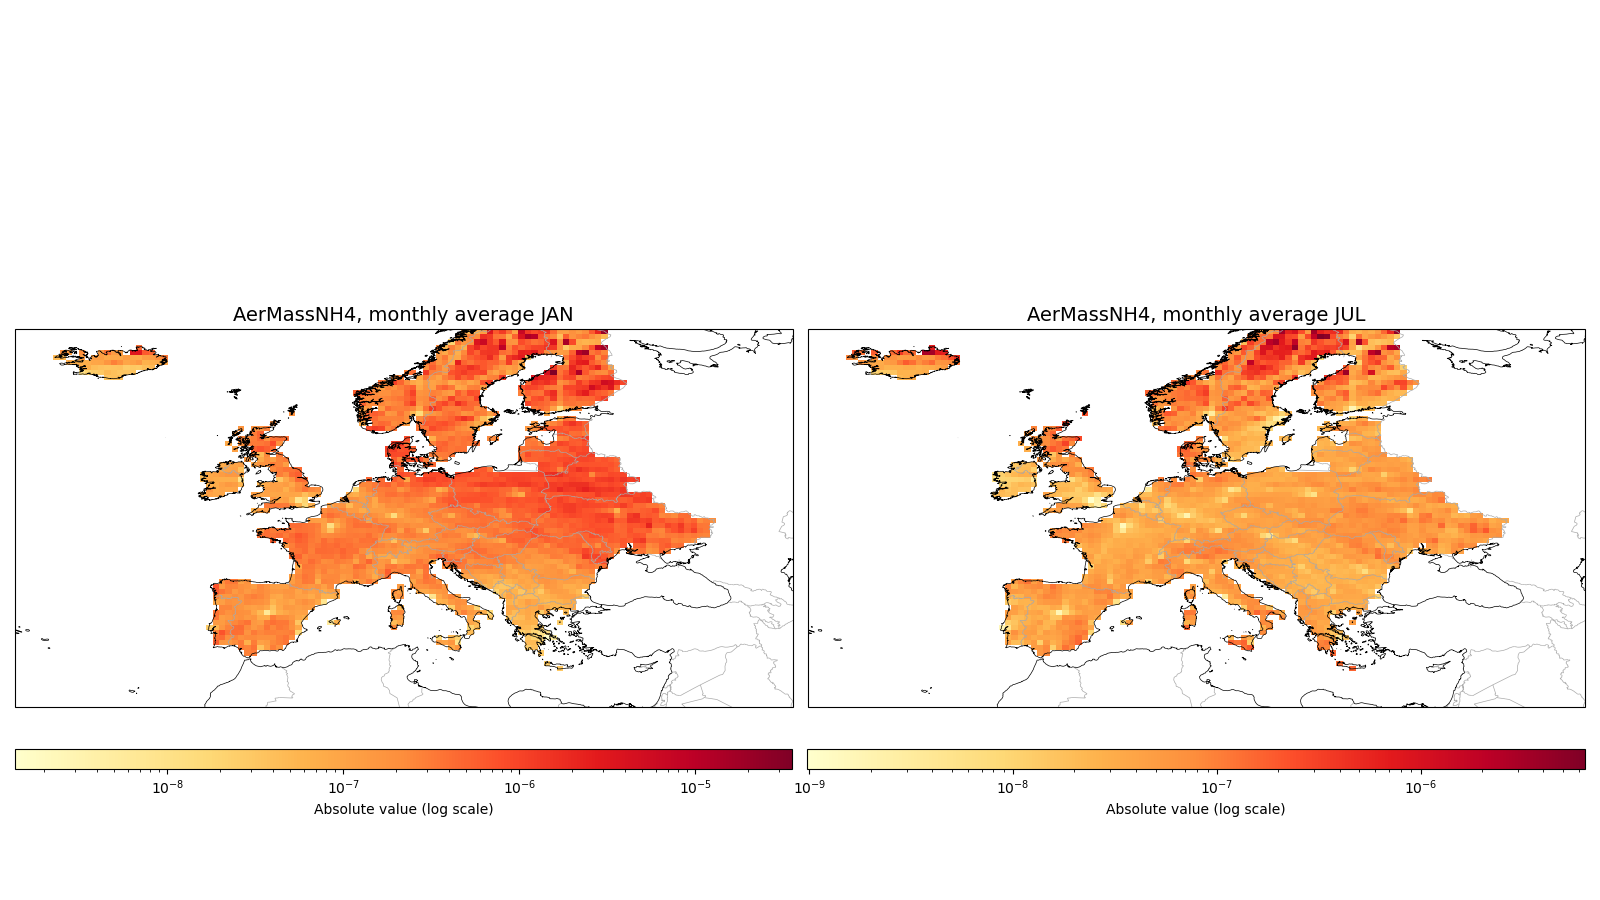
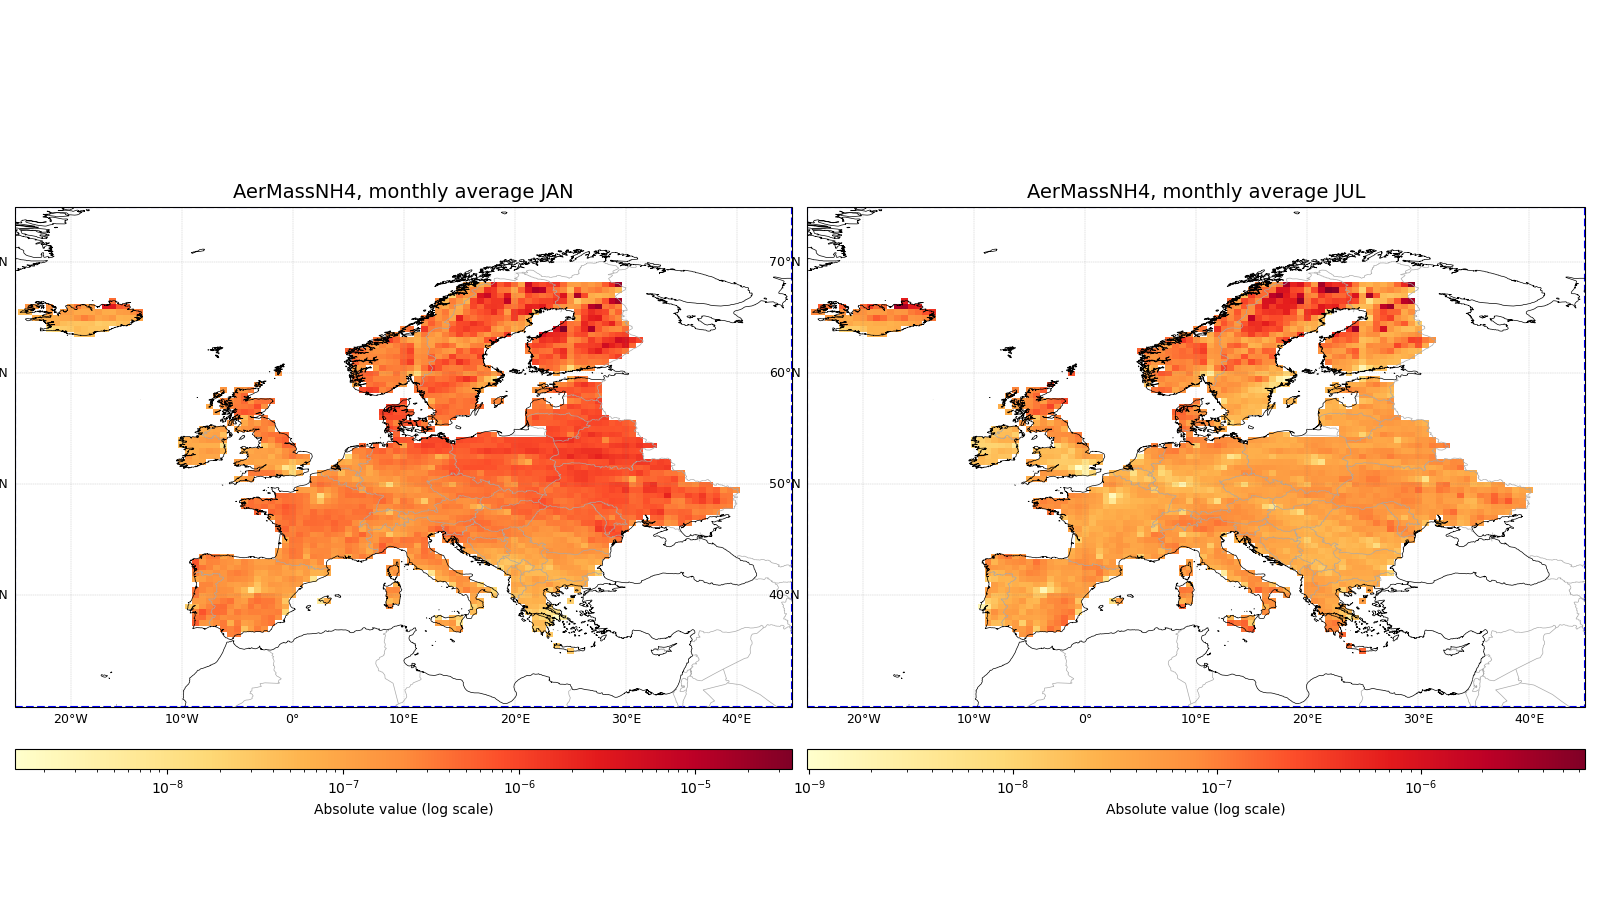
Implement cutoff for Europe

diff --git a/division_processing/procData.py b/division_processing/procData.py
@@ -1,6 +1,5 @@
 import matplotlib.pyplot as plt
 import matplotlib
-
 import cartopy.crs as ccrs
 import cartopy.feature as cfeature
 import xarray as xr
@@ -12,15 +11,14 @@ from cartopy.io.shapereader import natural_earth
 import shapely.geometry as sgeom
 import cartopy.io.shapereader as shpreader
 from shapely.prepared import prep
+from matplotlib.patches import Rectangle
 
 # Load the 'admin_0_countries' shapefile (countries of the world)
 shpfilename = shpreader.natural_earth(resolution='10m', category='cultural', name='admin_0_countries')
 reader = shpreader.Reader(shpfilename)
 records = reader.records()
 
-
 IQR = False
-# List of European countries you want to include (you can expand/adjust this)
 europe_countries = [
     "Austria", "Belgium", "Bosnia and Herzegovina", "Bulgaria", "Croatia", "Czech Republic",
     "Denmark", "Estonia", "Finland", "France", "Germany", "Greece", "Hungary",
@@ -44,9 +42,16 @@ for record in records:
 europe_geom = sgeom.MultiPolygon(polygons)
 prep_europe = prep(europe_geom)
 
+# Rough bounding box for Europe
+EUROPE_BOUNDS = {
+    'lon_min': -25,
+    'lon_max': 45,
+    'lat_min': 30,
+    'lat_max': 75
+}
 
 # ----------------------------------------------------
-# 2. Function to mask ocean values from a DataArray
+# Function to mask ocean values from a DataArray
 # ----------------------------------------------------
 def mask_ocean(dataarray):
     lons, lats = np.meshgrid(dataarray['lon'], dataarray['lat'])
@@ -56,12 +61,10 @@ def mask_ocean(dataarray):
     return dataarray.where(mask)
 
 # ----------------------------------------------------
-# 3. Plot only over Europe
+# Plot only over Europe
 # ----------------------------------------------------
 start = time.time()
 months = ['JAN', 'JUL']
-
-
 
 types = {
     'Aerosol': {
@@ -90,25 +93,41 @@ for type_, vars in types.items():
             pollutant = differencer(type_, month, var)
             sum_emittants = adder(emissions, emittants)
 
-            # Slice pollutants, top 20% chosen
             pollutant_top20 = np.nanpercentile(pollutant.values, 100*0)
             select_pollutant = pollutant.where(pollutant.values >= pollutant_top20, np.nan)
 
-            measure = select_pollutant / sum_emittants ## select_pollutant
-
-            
+            measure = select_pollutant / sum_emittants
             measures.append(measure)
-            
+        
         fig, ax = plt.subplots(1, 2, figsize=[16, 6], subplot_kw={"projection": ccrs.PlateCarree()})
         plt.tight_layout()
+        
         for i, month in enumerate(months):
-            
             ax[i].add_feature(cfeature.BORDERS.with_scale('10m'), linewidth=0.5, edgecolor='darkgrey')
             ax[i].coastlines(resolution='10m', linewidth=0.5, color='black')
             
+            # Set extent to Europe
+            ax[i].set_extent([EUROPE_BOUNDS['lon_min'], EUROPE_BOUNDS['lon_max'],
+                              EUROPE_BOUNDS['lat_min'], EUROPE_BOUNDS['lat_max']], crs=ccrs.PlateCarree())
+            
+            # Add bounding box on map
+            europe_rect = Rectangle(
+                (EUROPE_BOUNDS['lon_min'], EUROPE_BOUNDS['lat_min']),
+                EUROPE_BOUNDS['lon_max'] - EUROPE_BOUNDS['lon_min'],
+                EUROPE_BOUNDS['lat_max'] - EUROPE_BOUNDS['lat_min'],
+                linewidth=1.5, edgecolor='blue', facecolor='none', linestyle='--', transform=ccrs.PlateCarree()
+            )
+            ax[i].add_patch(europe_rect)
+
+            # Optional: Add gridlines with labels
+            gl = ax[i].gridlines(draw_labels=True, linewidth=0.3, color='gray', alpha=0.5, linestyle='--')
+            gl.top_labels = False
+            gl.right_labels = False
+            gl.xlabel_style = {'size': 9}
+            gl.ylabel_style = {'size': 9}
+
             masked_measure = mask_ocean(measures[i])
             negative_measures = abs(masked_measure.where(masked_measure.values < 0))
-            
             masked_measure_europe = masked_measure.where(masked_measure.values > 0)
             
             if IQR:
@@ -118,49 +137,39 @@ for type_, vars in types.items():
                 iqr = q3 - q1
                 lower_bound = q1 - 1.5 * iqr
                 upper_bound = q3 + 1.5 * iqr
-                
-                masked_measure_europe = masked_measure_europe.where((masked_measure_europe >= lower_bound) & (masked_measure_europe <= upper_bound), np.nan)
-            
+                masked_measure_europe = masked_measure_europe.where(
+                    (masked_measure_europe >= lower_bound) & 
+                    (masked_measure_europe <= upper_bound), np.nan
+                )
+
             vmin = np.nanmin(masked_measure_europe.values)
             vmax = np.nanmax(masked_measure_europe.values)
-            
-            # masked_measure_europe = masked_measure.where(masked_measure.values != 0, vmin)
-            
-            # lati, longi = np.unravel_index(np.nanargmax(masked_measure_europe.values), masked_measure_europe.shape)
-            # latitudes = masked_measure_europe['lat'].values
-            # longitudes = masked_measure_europe['lon'].values
-            # lat = latitudes[lati]
-            # lon = longitudes[longi]
-
             norm1 = matplotlib.colors.LogNorm(vmin=vmin, vmax=vmax)
-    	    
+            
             fig.set_size_inches(16, 9)
             if np.any(~np.isnan(negative_measures.values)):
-                fig.set_size_inches(16, 9)
-                norm2 = matplotlib.colors.LogNorm(vmin= np.nanmin(negative_measures.values), vmax = np.nanmax(negative_measures.values))
+                norm2 = matplotlib.colors.LogNorm(vmin=np.nanmin(negative_measures.values), vmax=np.nanmax(negative_measures.values))
                 negative_measures.plot(
-                ax=ax[i],
-                cmap='BuGn',
-                transform=ccrs.PlateCarree(),
-                norm=norm2,
-                cbar_kwargs={"label": "Negative values (log scale)", "aspect": 40, "location" : "bottom", "pad" : 0.05}
-            )
-            
+                    ax=ax[i],
+                    cmap='BuGn',
+                    transform=ccrs.PlateCarree(),
+                    norm=norm2,
+                    cbar_kwargs={"label": "Negative values (log scale)", "aspect": 40, "location": "bottom", "pad": 0.05}
+                )
             
             masked_measure_europe.plot(
                 ax=ax[i],
                 transform=ccrs.PlateCarree(),
                 norm=norm1,
                 cmap='YlOrRd',
-                cbar_kwargs={"label": "Absolute value (log scale)", "aspect": 40, "location" : "bottom", "pad" : 0.05}
+                cbar_kwargs={"label": "Absolute value (log scale)", "aspect": 40, "location": "bottom", "pad": 0.05}
             )
-            
             
             ax[i].set_title(f"{var}, monthly average {month}", fontsize=14)
 
         plt.savefig(os.path.join(os.path.dirname(__file__), '..', 'division_processing', 'division_figures', f'{type_}_{var}_timeaveraged_logscale.png'))
 
 end = time.time()
-plt.show()
+# plt.show()
 
 print(f"Process run in {end - start} s")

diff --git a/mountains_test.py b/mountains_test.py
@@ -1,30 +1,37 @@
+from selenium import webdriver
+from selenium.webdriver.chrome.service import Service
+from selenium.webdriver.chrome.options import Options
+from webdriver_manager.chrome import ChromeDriverManager
+from selenium.webdriver.common.by import By
 import matplotlib.pyplot as plt
-import cartopy.crs as ccrs
-import cartopy.io.img_tiles as cimgt
-import geopandas as gpd
-from shapely.geometry import Point
-from shapely.geometry.polygon import Polygon
+from PIL import Image
+import requests
+from io import BytesIO
+import time
 
-# Create a Cartopy map with satellite imagery
-fig, ax = plt.subplots(figsize=(10, 10), subplot_kw={'projection': ccrs.PlateCarree()})
+# Set Chrome options
+chrome_options = Options()
+chrome_options.add_argument("--headless")  # Run in headless mode
 
-# Use Cartopy's Google Maps (satellite) tile service
-tiles = cimgt.GoogleTiles(style='satellite')
-ax.add_image(tiles, 8)  # Zoom level 8 for a moderate view
+# Automatically use the right ChromeDriver
+service = Service(ChromeDriverManager().install())
+driver = webdriver.Chrome(service=service, options=chrome_options)
 
-# Add a shapefile (or manually created shapely geometries)
-# For this example, we'll create a polygon using Shapely
-polygon = Polygon([(0, 30), (0, 50), (60, 50), (60, 90)])
-ax.set_extent([0, 40, 29.5, 90], crs=ccrs.PlateCarree())  # Adjust extent for the region
+# Open NASA Earth Observatory
+driver.get("https://earthobservatory.nasa.gov/images")
 
-# Use Shapely geometry to plot the region on the map
-x, y = polygon.exterior.xy
-ax.plot(x, y, color='blue', linewidth=2, marker='o', markersize=4, transform=ccrs.PlateCarree())
+# Wait and grab image
+time.sleep(2)
+first_image = driver.find_element(By.CSS_SELECTOR, "div.item a img")
+img_url = first_image.get_attribute("src")
 
-# Add a point using Shapely
-point = Point(-77, 33)
-ax.scatter(point.x, point.y, color='red', transform=ccrs.PlateCarree())
+driver.quit()
 
-# Add title and show the plot
-ax.set_title("Satellite Map with Shapely Overlay")
+# Download and display image
+response = requests.get(img_url)
+img = Image.open(BytesIO(response.content))
+
+plt.imshow(img)
+plt.axis("off")
+plt.title("Earth Image from NASA")
 plt.show()

diff --git a/division_processing/scatter_emitoverpoll.py b/division_processing/scatter_emitoverpoll.py
@@ -41,24 +41,24 @@ for type_, vars in types.items():
         emittants_lst = []
         
         for month in months:
-            pollutant = differencer(type_, month, var)
-            sum_emittant = adder(emissions, emittants)
-
+            pollutant = differencer(type_, month, var) # 74 by 122
+            sum_emittant = adder(emissions, emittants) # 75 by 123
+             
             pollutants_lst.append(pollutant)
             
             emittants_lst.append(sum_emittant)
             
-        for i, month in enumerate(months):
-            ax[i].add_feature(cfeature.BORDERS.with_scale('50m'), linewidth=0.5, edgecolor='darkgrey')
-            ax[i].coastlines(resolution='50m', linewidth=0.5, color='black')
+        # for i, month in enumerate(months):
+        #     ax[i].add_feature(cfeature.BORDERS.with_scale('50m'), linewidth=0.5, edgecolor='darkgrey')
+        #     ax[i].coastlines(resolution='50m', linewidth=0.5, color='black')
             
-            print(len(emittants_lst[i]), len(pollutants_lst[i]))
-            plt.scatter(emittants_lst, pollutants_lst)
-            ax[i].set_title(f"{var}, monthly average {month}", fontsize=14)
+            
+        #     plt.scatter(emittants_lst, pollutants_lst)
+        #     ax[i].set_title(f"{var}, monthly average {month}", fontsize=14)
 
-        plt.savefig(os.path.join(os.path.dirname(__file__), '..', 'division_processing', 'division_figures', f'{type_}_{var}_timeaveraged_Europe.png'))
+#        plt.savefig(os.path.join(os.path.dirname(__file__), '..', 'division_processing', 'division_figures', f'{type_}_{var}_timeaveraged_Europe.png'))
 
 end = time.time()
-plt.show()
+# plt.show()
 
 print(f"Process run in {end - start} s")

diff --git a/test.py b/test.py
@@ -1,0 +1,4 @@
+import numpy as np
+a = np.array([0, 1])
+b = np.array([5, 5, 5])
+a / b
